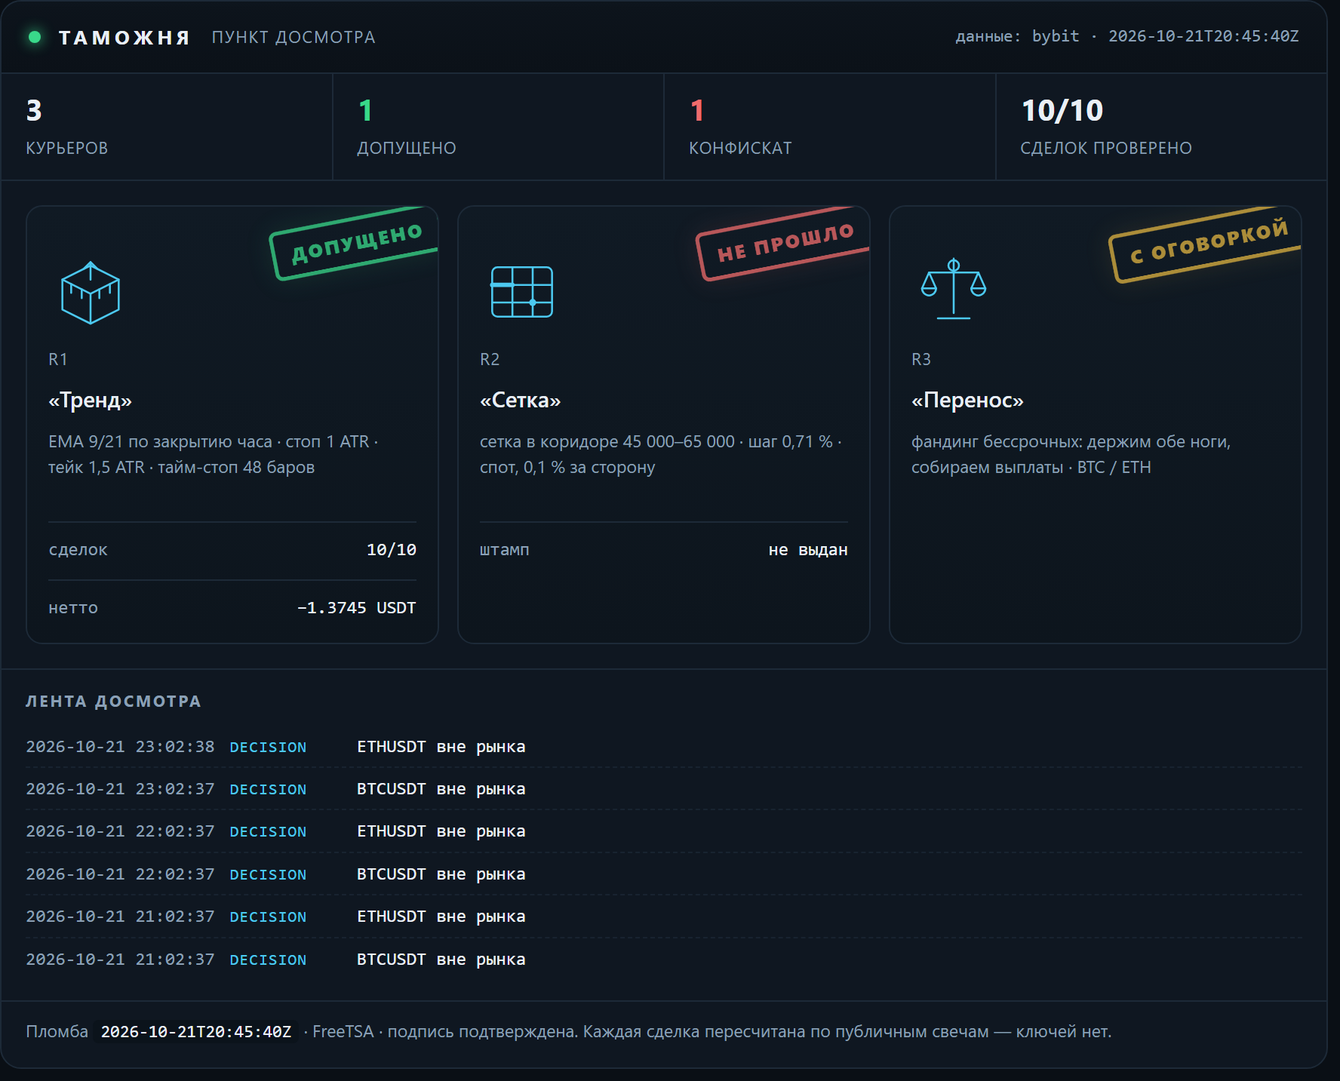
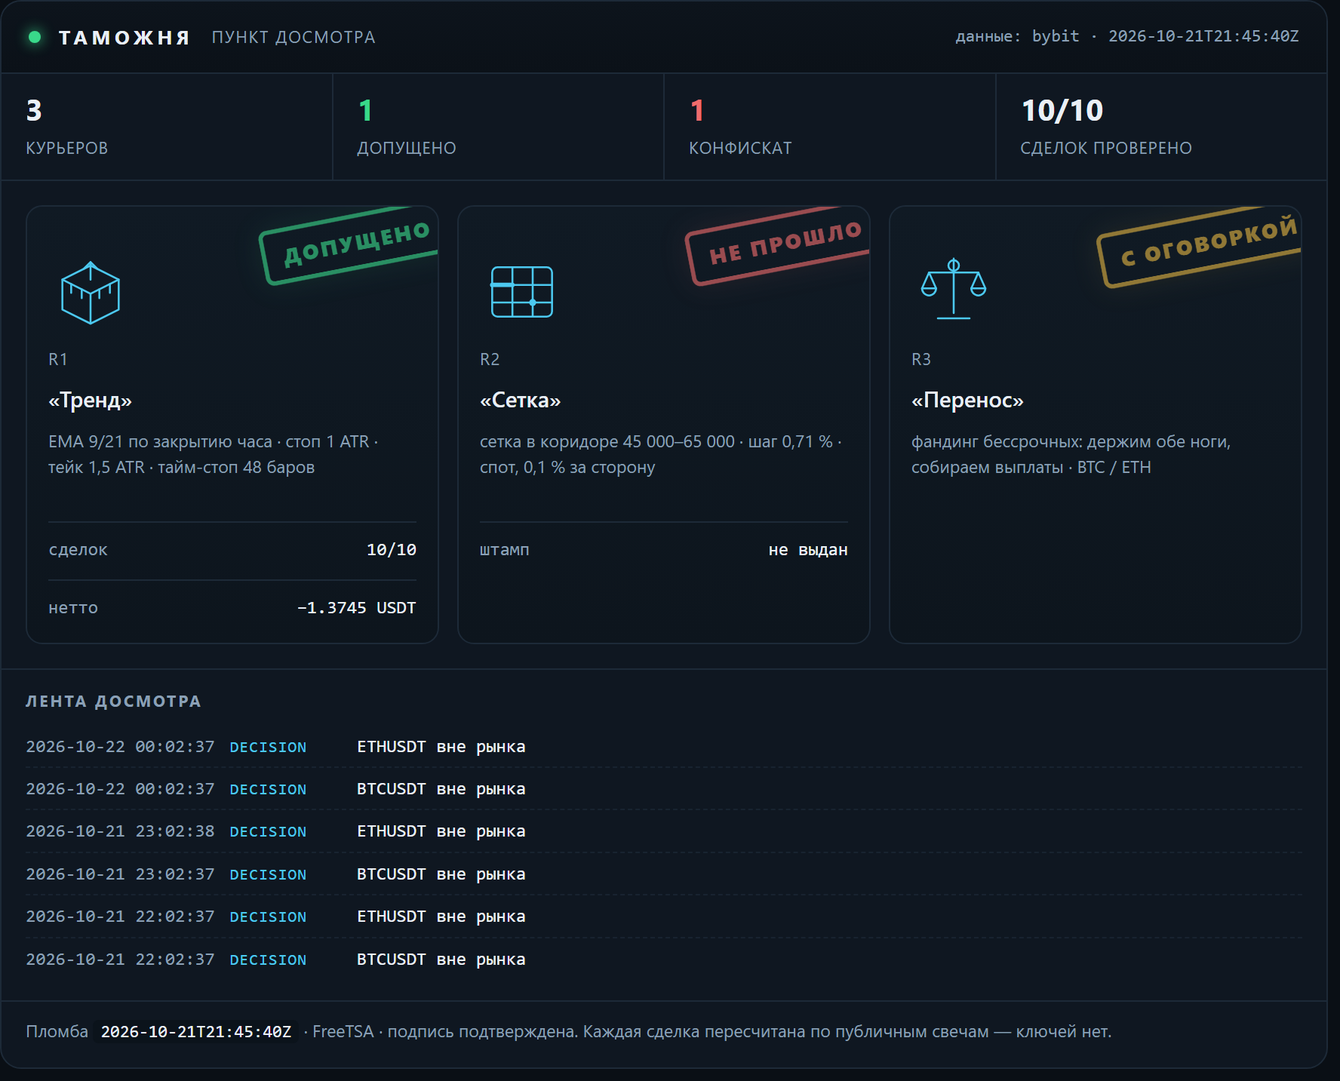
lab: таможня — свежие числа досмотра

Changed region(s): [[0.8052, 0.1842, 0.96, 0.2763], [0.4955, 0.1842, 0.6503, 0.2763], [0.1858, 0.1842, 0.3407, 0.2763]]

diff --git a/docs/customs.html b/docs/customs.html
@@ -16,7 +16,7 @@
   <h1><a href="index.html">Gramwright Lab</a></h1>
   <p>Журнал проверки торговых гипотез: что проверяли, что вышло по факту, сколько съели издержки. Числа берутся из журнала стенда. Не инвестиционная рекомендация.</p>
 </header>
-<h1>Таможня</h1><p class="intro">Пункт досмотра заявленных результатов. Стратегии приезжают с грузом обещаний, и каждая проходит проверку по публичным данным биржи: цены существуют, комиссии по тарифу, нетто сходится. Что прошло — получает штамп. Что не прошло — в конфискат, с причиной. Штамп означает «записи подлинные», а не «стратегия прибыльна».</p><p><img src="img/customs.png" alt="Терминал досмотра: три курьера, штампы, лента событий" style="width:100%;height:auto;border:1px solid var(--line);border-radius:10px"></p><p class="c-note">Сверху — тот же терминал, что собирается из журналов: счётчики, эмблемы курьеров, штампы и лента последних событий. Ниже — то же самое текстом, чтобы читалось с телефона и индексировалось поиском.</p><article><h2>R1 «Тренд» <span class="verdict">— <span class="c-ok">допущено</span></span></h2><p><strong>Правило:</strong> EMA 9/21 по закрытию часа · стоп 1 ATR · тейк 1,5 ATR · тайм-стоп 48 баров</p><p><strong>Декларация:</strong> Заявлено до прогона: держать 30 сделок, лимит нотионала 10 % от счёта, стоп дня −1 %. Прибыль не заявлялась — это важно: курьер не обещал доход.</p><p><strong>Проверено по публичным свечам, без ключей:</strong> 10 из 10 сделок. Сумма нетто −1.3745 USDT.</p><ul class="c-chk"><li class="y">BTCUSDT: нетто −0.8746 USDT · комиссии 0.0901 · проверено · с поправкой</li><li class="y">BTCUSDT: нетто −0.5441 USDT · комиссии 0.0896 · проверено</li><li class="y">ETHUSDT: нетто −0.2253 USDT · комиссии 0.0266 · проверено</li><li class="y">ETHUSDT: нетто −0.1513 USDT · комиссии 0.0265 · проверено</li><li class="y">ETHUSDT: нетто +0.1984 USDT · комиссии 0.0262 · проверено</li><li class="y">ETHUSDT: нетто +0.1617 USDT · комиссии 0.0260 · проверено</li><li class="y">ETHUSDT: нетто +0.2645 USDT · комиссии 0.0263 · проверено</li><li class="y">BTCUSDT: нетто +0.6246 USDT · комиссии 0.0897 · проверено</li><li class="y">BTCUSDT: нетто −0.5881 USDT · комиссии 0.0910 · проверено</li><li class="y">ETHUSDT: нетто −0.2403 USDT · комиссии 0.0270 · проверено</li></ul><p class="tags">журнал sha256 598a9e14f8f09546… · проверяльщик verify-1</p><p class="c-note">Штамп означает: записи подлинные, а не что стратегия прибыльна. Курьер в минусе, и минус тоже стоит на штампе — иначе это была бы не проверка, а реклама.</p><p class="tags">источник: verify-report.json</p></article><article><h2>R2 «Сетка» <span class="verdict">— <span class="c-bad">не прошло</span></span></h2><p><strong>Правило:</strong> сетка в коридоре 45 000–65 000 · шаг 0,71 % · спот, 0,1 % за сторону</p><p><strong>Декларация:</strong> Заявлено: «44 % урожая уходит бирже в виде комиссий». Кроме того — перевес над простым владением монетой.</p><p><strong>Что сошлось:</strong></p><ul class="c-chk"><li class="y">сами числа пересчитаны и воспроизводятся: коридор 45–65k был активен 23 % всей истории и 28 % последних двух лет</li></ul><p><strong>Что не сошлось:</strong></p><ul class="c-chk"><li class="n">44 % не подтвердилось: при шаге 0,71 % и тарифе 0,1 % комиссия съедает 28,3 % шага. Чтобы получить 44 %, нужен шаг 0,45 % — это около 80 уровней, а не 50</li><li class="n">от урожая доля комиссий 85,5 % за всю историю и 49,6 % за последние два года — тоже не 44 %</li><li class="n">перевес над владением посчитан на тарифе 0,055 %: при нём +1,32 п. п., на розничном 0,1 % — −0,72 п. п. То есть перевес исчезает</li><li class="n">семилетний тест стартовал в сентябре 2019 при биткоине около 10 000 — ниже коридора. Он говорит, что фиксированный коридор не подходит для периода, а не что сетка отстаёт</li></ul><p class="tags">источник: lab_grid.py, пересчёт 17.10.2026</p></article><article><h2>R3 «Перенос» <span class="verdict">— <span class="c-warn">с оговоркой</span></span></h2><p><strong>Правило:</strong> фандинг бессрочных: держим обе ноги, собираем выплаты · BTC / ETH</p><p><strong>Декларация:</strong> Заявлено: около 11,9 % в год от выплат фандинга при просадке выплатной кривой меньше 2 %.</p><p><strong>Что сошлось:</strong></p><ul class="c-chk"><li class="y">выплаты взяты из публичной истории биржи, ключей не нужно: BTC — 7 190 выплат с 25.03.2020, ETH — 6 561 с 21.10.2020</li><li class="y">сумма сходится: +83,4 % и +83,2 % за 6,6 и 6,0 года — те самые ~11,9 % в год</li><li class="y">худшая просадка выплатной кривой: −1,65 % и −1,97 %</li></ul><p><strong>Что не сошлось:</strong></p><ul class="c-chk"><li class="n">оговорка 1: премию сжали — 2021 год дал +38,3 %, 2026 — +1,96 %. Прошлое не повторяется</li><li class="n">оговорка 2: вход-выход стоит около 0,31 %, капитала нужно 1,2 от нотионала, текущий базис −0,082 % против входа</li><li class="n">оговорка 3: риск площадки. История FTX в этой же таблице выглядела так же прилично</li></ul><p class="tags">источник: публичная история фандинга Bybit, замер 17.10.2026</p></article><div class="c-conf"><h3>Конфискат</h3><p><strong>«Сетка»: заявленные 44 % комиссий не подтвердились.</strong> Досмотр показал 28,3 % от шага и 85,5 % от урожая — цифра хуже заявленной по форме, но лучше по смыслу: сетку убивает не размер шага, а то, что урожай почти весь уходит в комиссии. Это и вышло в выпуск — с поправкой, а не с красивой цифрой.</p></div><p class="c-note">Пломба: <code>2026-10-21T20:45:40Z</code> · нотариус FreeTSA · Oct 21 20:45:40 2026 GMT · подпись подтверждена. Манифест скрепляет отчёт проверки, журнал сделок и декларации курьеров: подменишь любую цифру — пломба перестанет сходиться.</p><p class="c-note">Досмотр идёт по публичным минутным свечам и публичной истории фандинга — ключей у проверяющего нет, и он может повторить проверку сам.</p><p class="c-note">Контент образовательный, не является инвестиционной рекомендацией. Торговля связана с риском потери капитала.</p>
+<h1>Таможня</h1><p class="intro">Пункт досмотра заявленных результатов. Стратегии приезжают с грузом обещаний, и каждая проходит проверку по публичным данным биржи: цены существуют, комиссии по тарифу, нетто сходится. Что прошло — получает штамп. Что не прошло — в конфискат, с причиной. Штамп означает «записи подлинные», а не «стратегия прибыльна».</p><p><img src="img/customs.png" alt="Терминал досмотра: три курьера, штампы, лента событий" style="width:100%;height:auto;border:1px solid var(--line);border-radius:10px"></p><p class="c-note">Сверху — тот же терминал, что собирается из журналов: счётчики, эмблемы курьеров, штампы и лента последних событий. Ниже — то же самое текстом, чтобы читалось с телефона и индексировалось поиском.</p><article><h2>R1 «Тренд» <span class="verdict">— <span class="c-ok">допущено</span></span></h2><p><strong>Правило:</strong> EMA 9/21 по закрытию часа · стоп 1 ATR · тейк 1,5 ATR · тайм-стоп 48 баров</p><p><strong>Декларация:</strong> Заявлено до прогона: держать 30 сделок, лимит нотионала 10 % от счёта, стоп дня −1 %. Прибыль не заявлялась — это важно: курьер не обещал доход.</p><p><strong>Проверено по публичным свечам, без ключей:</strong> 10 из 10 сделок. Сумма нетто −1.3745 USDT.</p><ul class="c-chk"><li class="y">BTCUSDT: нетто −0.8746 USDT · комиссии 0.0901 · проверено · с поправкой</li><li class="y">BTCUSDT: нетто −0.5441 USDT · комиссии 0.0896 · проверено</li><li class="y">ETHUSDT: нетто −0.2253 USDT · комиссии 0.0266 · проверено</li><li class="y">ETHUSDT: нетто −0.1513 USDT · комиссии 0.0265 · проверено</li><li class="y">ETHUSDT: нетто +0.1984 USDT · комиссии 0.0262 · проверено</li><li class="y">ETHUSDT: нетто +0.1617 USDT · комиссии 0.0260 · проверено</li><li class="y">ETHUSDT: нетто +0.2645 USDT · комиссии 0.0263 · проверено</li><li class="y">BTCUSDT: нетто +0.6246 USDT · комиссии 0.0897 · проверено</li><li class="y">BTCUSDT: нетто −0.5881 USDT · комиссии 0.0910 · проверено</li><li class="y">ETHUSDT: нетто −0.2403 USDT · комиссии 0.0270 · проверено</li></ul><p class="tags">журнал sha256 f1de97e42748358b… · проверяльщик verify-1</p><p class="c-note">Штамп означает: записи подлинные, а не что стратегия прибыльна. Курьер в минусе, и минус тоже стоит на штампе — иначе это была бы не проверка, а реклама.</p><p class="tags">источник: verify-report.json</p></article><article><h2>R2 «Сетка» <span class="verdict">— <span class="c-bad">не прошло</span></span></h2><p><strong>Правило:</strong> сетка в коридоре 45 000–65 000 · шаг 0,71 % · спот, 0,1 % за сторону</p><p><strong>Декларация:</strong> Заявлено: «44 % урожая уходит бирже в виде комиссий». Кроме того — перевес над простым владением монетой.</p><p><strong>Что сошлось:</strong></p><ul class="c-chk"><li class="y">сами числа пересчитаны и воспроизводятся: коридор 45–65k был активен 23 % всей истории и 28 % последних двух лет</li></ul><p><strong>Что не сошлось:</strong></p><ul class="c-chk"><li class="n">44 % не подтвердилось: при шаге 0,71 % и тарифе 0,1 % комиссия съедает 28,3 % шага. Чтобы получить 44 %, нужен шаг 0,45 % — это около 80 уровней, а не 50</li><li class="n">от урожая доля комиссий 85,5 % за всю историю и 49,6 % за последние два года — тоже не 44 %</li><li class="n">перевес над владением посчитан на тарифе 0,055 %: при нём +1,32 п. п., на розничном 0,1 % — −0,72 п. п. То есть перевес исчезает</li><li class="n">семилетний тест стартовал в сентябре 2019 при биткоине около 10 000 — ниже коридора. Он говорит, что фиксированный коридор не подходит для периода, а не что сетка отстаёт</li></ul><p class="tags">источник: lab_grid.py, пересчёт 17.10.2026</p></article><article><h2>R3 «Перенос» <span class="verdict">— <span class="c-warn">с оговоркой</span></span></h2><p><strong>Правило:</strong> фандинг бессрочных: держим обе ноги, собираем выплаты · BTC / ETH</p><p><strong>Декларация:</strong> Заявлено: около 11,9 % в год от выплат фандинга при просадке выплатной кривой меньше 2 %.</p><p><strong>Что сошлось:</strong></p><ul class="c-chk"><li class="y">выплаты взяты из публичной истории биржи, ключей не нужно: BTC — 7 190 выплат с 25.03.2020, ETH — 6 561 с 21.10.2020</li><li class="y">сумма сходится: +83,4 % и +83,2 % за 6,6 и 6,0 года — те самые ~11,9 % в год</li><li class="y">худшая просадка выплатной кривой: −1,65 % и −1,97 %</li></ul><p><strong>Что не сошлось:</strong></p><ul class="c-chk"><li class="n">оговорка 1: премию сжали — 2021 год дал +38,3 %, 2026 — +1,96 %. Прошлое не повторяется</li><li class="n">оговорка 2: вход-выход стоит около 0,31 %, капитала нужно 1,2 от нотионала, текущий базис −0,082 % против входа</li><li class="n">оговорка 3: риск площадки. История FTX в этой же таблице выглядела так же прилично</li></ul><p class="tags">источник: публичная история фандинга Bybit, замер 17.10.2026</p></article><div class="c-conf"><h3>Конфискат</h3><p><strong>«Сетка»: заявленные 44 % комиссий не подтвердились.</strong> Досмотр показал 28,3 % от шага и 85,5 % от урожая — цифра хуже заявленной по форме, но лучше по смыслу: сетку убивает не размер шага, а то, что урожай почти весь уходит в комиссии. Это и вышло в выпуск — с поправкой, а не с красивой цифрой.</p></div><p class="c-note">Пломба: <code>2026-10-21T21:45:40Z</code> · нотариус FreeTSA · Oct 21 21:45:40 2026 GMT · подпись подтверждена. Манифест скрепляет отчёт проверки, журнал сделок и декларации курьеров: подменишь любую цифру — пломба перестанет сходиться.</p><p class="c-note">Досмотр идёт по публичным минутным свечам и публичной истории фандинга — ключей у проверяющего нет, и он может повторить проверку сам.</p><p class="c-note">Контент образовательный, не является инвестиционной рекомендацией. Торговля связана с риском потери капитала.</p>
 <footer class="site">
   Код стенда и аудитора: <a href="https://github.com/XSlaidx/truth-engine">XSlaidx/truth-engine</a>
   &middot; <a href="graveyard.html">кладбище правил</a>
